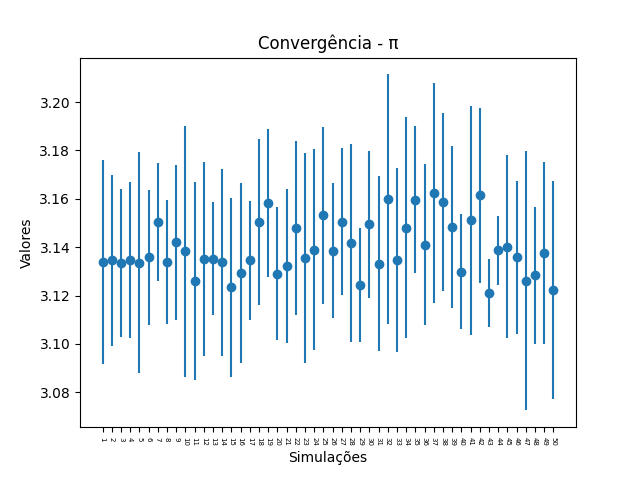
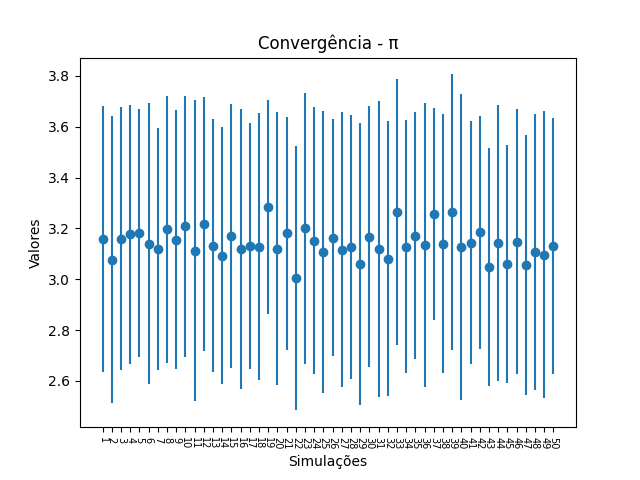
Commit 26

diff --git a/MAC0110/EPs/EP2/EP2_Envio.py b/MAC0110/EPs/EP2/EP2_Envio.py
@@ -50,6 +50,7 @@ def mediaV(V, n):
     """
     :param V: Lista de valores numéricos;
     :param n: Número de elementos em 'V';
+
     :return: Média de 'V'.
     """
     s, i = 0, 0
@@ -65,6 +66,7 @@ def varV(V, n):
     """
     :param V: Lista de valores numéricos;
     :param n: Número de elementos em 'V';
+
     :return: Variância de 'V'.
     """
     m = mediaV(V, n)
@@ -80,6 +82,7 @@ def varV(V, n):
 def PiMCM(n):
     """
     :param n: Número de pontos aleatórios criados;
+
     :return: Estimativa de PI. Número de pontos que caíram dentro do semi-círculo, dividido por 'n'.
     """
     s = i = 0
@@ -99,6 +102,7 @@ def estimaPiMC(r, n):
     """
     :param r: Número de simulações;
     :param n: Número de pontos aleatórios criados em cada simulação;
+
     :return: Média e variância dos resultados das simulações.
     """
     i = 0
@@ -116,7 +120,9 @@ def SimulaConvergenciaPi(m, r, n):
     """
     :param m: Número de simulação maiores de simulações de Monte Carlo;
     :param r: Número de simulações de Monte Carlo;
-    :param n: Número de pontos aleatórios criados em cada simulação de Monte Carlo.
+    :param n: Número de pontos aleatórios criados em cada simulação de Monte Carlo;
+
+    :return: Médias e desvios padrões das simulações maiores.
     """
     i = 0
     medias, dps = [], []
@@ -133,6 +139,7 @@ def SimulaConvergenciaPi(m, r, n):
 def leiaDados(arquivo):
     """
     :param arquivo: Nome do arquivo a ser lido;
+
     :return: Objeto contendo os dados do arquivo.
     """
     dados = pandas.read_csv(arquivo, sep=';')
@@ -144,6 +151,7 @@ def leiaDados(arquivo):
 def calculaPi(dados):
     """
     :param dados: Objeto semelhante a uma planilha. Deve conter colunas 'diametro' e 'circunferencia';
+
     :return: Uma lista com o valor de 'circunferencia' / 'diametro' para cada linha de 'dados'.
     """
     i = 0
@@ -155,12 +163,11 @@ def calculaPi(dados):
     return pis
 
 
-# Retorne um tipo Dataframe ao invés de um tipo vetor
-
 # E9
 def estimavaMediaPi(valoresPi):
     """
     :param valoresPi: Lista de valores aproximados de Pi;
+
     :return: Média e variância de 'valoresPi'.
     """
     size = len(valoresPi)
@@ -171,6 +178,8 @@ def estimavaMediaPi(valoresPi):
 def melhoraPi(valoresPi):
     """
     :param valoresPi: Lista de valores aproximados de Pi.
+
+    :return: Média melhorada dos valores aproximados de Pi.
     """
 
     df = pandas.DataFrame(valoresPi, columns=['valores'])

diff --git a/MAC0110/EPs/EP2/EP2.py b/MAC0110/EPs/EP2/EP2.py
@@ -11,11 +11,13 @@ import pandas
 
 
 def main():
-    # SimulaConvergenciaPi(m=50, n=2000, r=10)
+    dados = leiaDados(filename='Dados EP2.csv')
 
-    dados = leiaDados('Dados EP2.csv')
-    values_pi = calculaPi(dados)
-    melhoraPi(values_pi)
+    valoresPi = calculaPi(dados)
+
+    print(estimavaMediaPi(valoresPi))
+
+    melhoraPi(valoresPi)
 
 
 def mediaV(V: list, n: int) -> float:
@@ -80,7 +82,7 @@ def estimaPiMC(r: int, n: int) -> (float, float):
     return mediaV(simulations, r), varV(simulations, r)
 
 
-def SimulaConvergenciaPi(m: int, r: int, n: int):
+def simulaConvergenciaPi(m: int, r: int, n: int):
     """
     :param m: Número de simulação maiores de simulações de Monte Carlo;
     :param r: Número de simulações de Monte Carlo;
@@ -94,8 +96,7 @@ def SimulaConvergenciaPi(m: int, r: int, n: int):
         dps += [sqrt(v)]
         i += 1
 
-    return medias, dps
-    # GraficaMCMPi(m, medias, dps)
+    GraficaMCMPi(m, medias, dps)
 
 
 def GraficaMCMPi(mpontos: int, mediaMCMPi: list, desvioMCMPi: list) -> None:
@@ -111,10 +112,14 @@ def GraficaMCMPi(mpontos: int, mediaMCMPi: list, desvioMCMPi: list) -> None:
     plt.xticks(xticks, rotation=-90, fontsize=7)
     plt.xlabel("Simulações")
 
-    plt.ylabel("Valores")
+    plt.ylabel("Aproximação de Pi")
 
-    plt.title("Convergência - π")
-    plt.savefig('GraficaMCMPi')
+    plt.ylim([3, 3.3])
+
+    plt.title("Simulações maiores de Monte Carlo")
+    plt.legend(labels=['n = 100000'])
+
+    plt.show()
 
 
 def leiaDados(filename: str):
@@ -191,8 +196,10 @@ def melhoraPi(valoresPi: list) -> None:
 
     iqr = q3 - q1
 
-    df2 = df[q3 + 1.5 * iqr > df['valores']]
-    df3 = df2[q1 - 1.5 * iqr < df2['valores']]
+    df2 = df[q3 + 0.5 * iqr > df['valores']]
+    df3 = df2[q1 - 0.5 * iqr < df2['valores']]
+
+    print(df3.describe())
 
     plt.scatter(range(len(df3)), df3)
 
@@ -200,6 +207,8 @@ def melhoraPi(valoresPi: list) -> None:
     plt.ylabel("Valores de π")
 
     plt.title("Estimativa de π")
+
+    plt.ylim([0, 30])
 
     plt.show()
 

diff --git a/MAC Multimídia/Vetores/02.py b/MAC Multimídia/Vetores/02.py
@@ -1,0 +1,33 @@
+def main():
+    print('Preencha o gabarito:')
+    gabarito = popula_prova()
+
+    n = int(input('Número de estudantes: '))
+    for i in range(1, n + 1):
+        print(f'Preencha a prova do aluno {i}: ')
+        prova = popula_prova()
+        acertos = calcula_acertos(gabarito, prova)
+        print(f'Acertos: {acertos}')
+
+
+def popula_prova():
+    prova = []
+    for i in range(1, 31):
+        q = input(f'Alternativa da {i}° questão: ')
+        while not (q in ['ABCDE']):
+            q = input(f'ERRO. Alternativa da {i}° questão: ')
+        prova += [q]
+
+    return prova
+
+
+def calcula_acertos(gabarito, prova):
+    acertos = 0
+    for i in range(30):
+        if gabarito[i] == prova[i]:
+            acertos += 1
+
+    return acertos
+
+
+main()

diff --git a/MAC Multimídia/Funções II/06.py b/MAC Multimídia/Funções II/06.py
@@ -1,0 +1,43 @@
+def main():
+    n = int(input('n: '))
+    while not n > 2:
+        n = int(input('n: '))
+
+    fn2, gn2 = valor(n - 2)
+    print(fn2, gn2)
+
+    fn200, gn200 = valor(n + 200)
+    print(fn200, gn200)
+
+    print(fn2 + gn200, fn200 - gn2)
+
+
+def F(i):
+    F1 = 2
+    Fa = 1
+    n = 3
+    while n <= i:
+        Fp = 2 * Fa + G(n - 2)
+        Fa = Fp
+        n += 1
+
+    return Fa if i > 1 else F1
+
+
+def G(i):
+    G1 = 1
+    Ga = 2
+    n = 3
+    while n <= i:
+        Gp = Ga + 3 * F(n - 2)
+        Ga = Gp
+        n += 1
+
+    return Ga if i > 1 else G1
+
+
+def valor(k):
+    return F(k), G(k)
+
+
+main()

diff --git a/MAC Multimídia/Funções II/05.py b/MAC Multimídia/Funções II/05.py
@@ -1,0 +1,24 @@
+def main():
+    print('Strings em maíusculo de sequência de n caractéres')
+    n = int(input('n > 0: '))
+
+    final_string = ""
+    for i in range(1, n + 1):
+        v = input(f'{i}° termo: ')
+        v_type, upper_v = converte(v)
+        if v_type == 1:
+            final_string += upper_v + " "
+
+    print(final_string)
+
+
+def converte(ch):
+    if ch.isnumeric():
+        return 0, ch
+    elif ch.isalpha():
+        return 1, ch.upper()
+    else:
+        return 2, ch
+
+
+main()

diff --git a/MAC Multimídia/Vetores/01.py b/MAC Multimídia/Vetores/01.py
@@ -1,0 +1,18 @@
+def main():
+    print('Sequência de n números e sua inversa')
+    n = int(input('n > 0: '))
+
+    inversa = popula_inversa(n)
+    print(f'A sequência inversa é: {inversa}')
+
+
+def popula_inversa(n):
+    inversa = []
+    for i in range(1, n + 1):
+        v = float(input(f'{i}° termo: '))
+        inversa = [v] + inversa
+
+    return inversa
+
+
+main()

diff --git a/Apostila de Exercícios/main.py b/Apostila de Exercícios/main.py
@@ -5,6 +5,7 @@ def main():
     apostila = Apostila()
     apostila.preencher(filename='Exercícios')
 
+    # print(len(apostila.exercicios)) - 83
     r = 'y'
     while r == 'y':
         t = input("Qual tópico deseja estudar? ('all' para qualquer um) ").capitalize()
